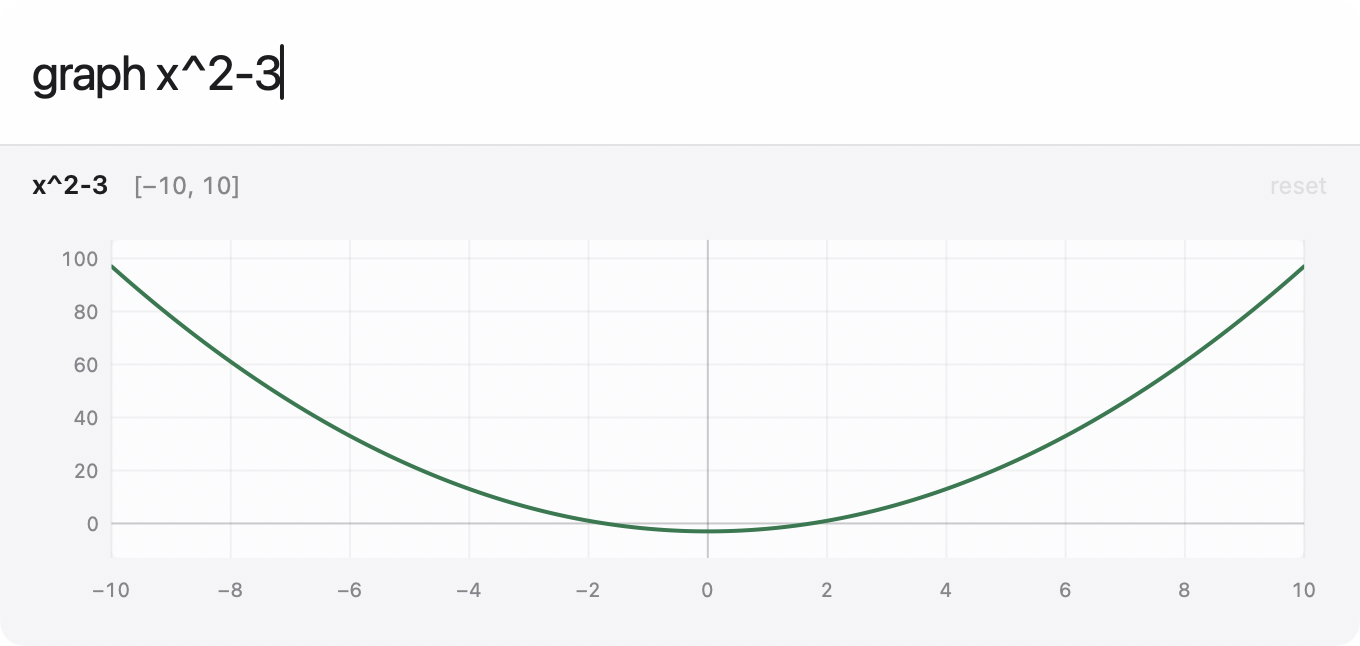
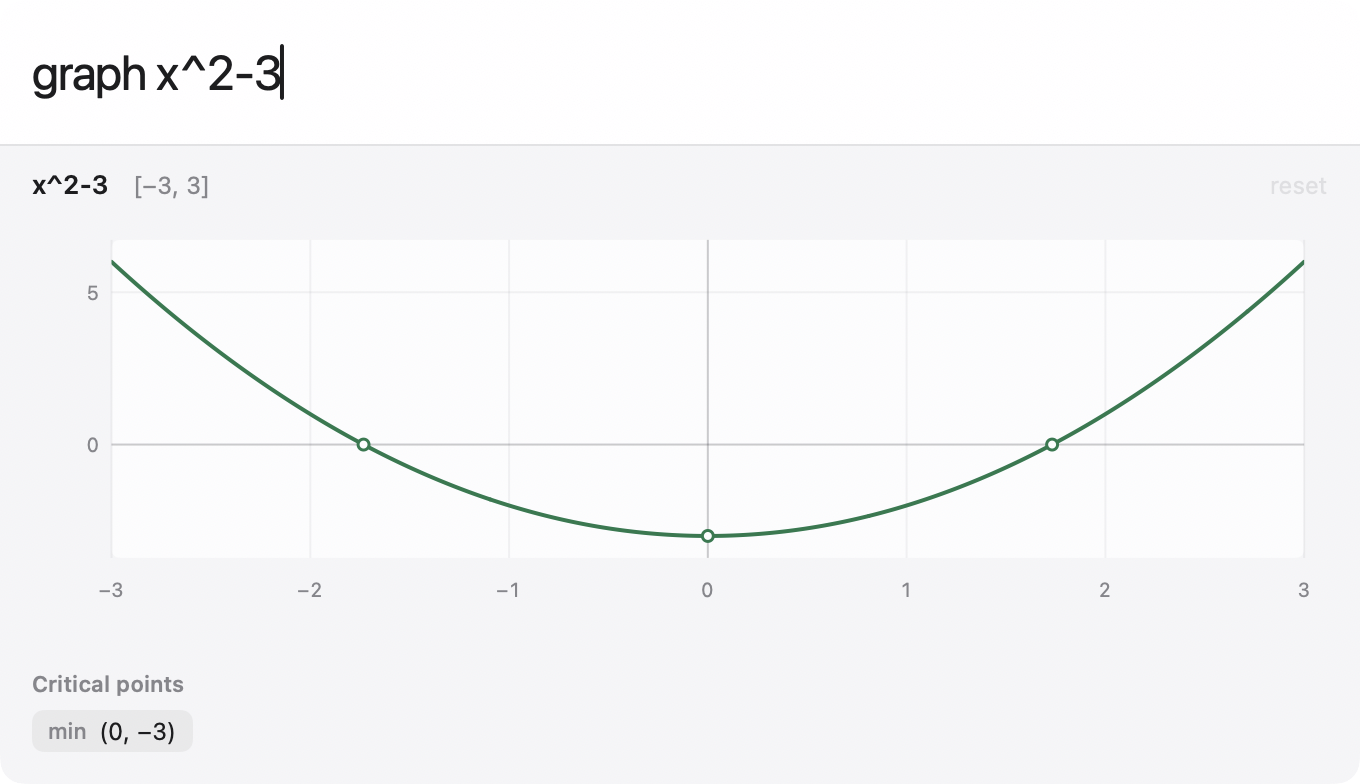
native mac: greeting as greeting.ts, PARITY.md updated (everything built; typeset preview waits on a Typst renderer), parity pairs refreshed on the full engine

diff --git a/native/mac/Sources/Bar/TextRules.swift b/native/mac/Sources/Bar/TextRules.swift
@@ -169,7 +169,8 @@ enum BarCommand: Equatable {
         if lower == "settings" || lower == "preferences" { return .settings }
         if lower == "tutorial" || lower == "tour" { return .tutorial }
         if lower.range(of: #"^skip(\s+(tutorial|tour))?$"#, options: .regularExpression) != nil { return .skip }
-        if lower == "hi" || lower == "hello" || lower == "hey" { return .greeting }
+        // greeting.ts: `hello` gets a hi back (not `hi` or `hey`, which could be someone's variable)
+        if lower.range(of: #"^(hello|hello there|hiya|howdy)\s*[!.]*$"#, options: .regularExpression) != nil { return .greeting }
         if let g = graphRE.groups(t), let body = g[1] ?? nil { return .graph(body) }
         return nil
     }
@@ -193,7 +194,7 @@ enum BarCommand: Equatable {
         case .tutorial: return "start the tutorial"
         case .skip: return ""
         case .graph: return ""
-        case .greeting: return ""
+        case .greeting: return "hi 👋"
         }
     }
 }

diff --git a/native/mac/Sources/Bar/BarModel.swift b/native/mac/Sources/Bar/BarModel.swift
@@ -493,7 +493,7 @@ final class BarModel: ObservableObject {
         case .graph:
             break
         case .greeting:
-            hint = "hi! type some maths, like 2^10 or sqrt(2), and press ↵"
+            clearLine()
         }
     }
 

diff --git a/native/mac/PARITY.md b/native/mac/PARITY.md
@@ -32,20 +32,20 @@ edge tools 11 pt medium shown on hover, accent green `#1d7a4c` / `#63d392`, ink 
 | Feature | Status | Notes |
 |---|---|---|
 | Typed words become symbols (`sqrt`→√ …), "Keep words" | ✅ | `Symbols.swift` (WORD_SYMBOLS, AT_ONCE, LONGER_WORDS, SHORTCUT_SYMBOLS); `dual` pair |
-| Inferred grey parens (`inferParens`, `autofillParens`) | ❌ | needs the core's inferParens (WP-APP-LOGIC); the engine already closes them for the answer |
-| Completion ghost, Tab / → accepts | ⏳ | drawn from `LiveAnswer.completion`; bridged `completionFor` answers nil until WP-APP-LOGIC |
+| Inferred grey parens (`inferParens`, `autofillParens`) | ✅ | engine `inferParens`, drawn muted before and after the text |
+| Completion ghost, Tab / → accepts | ✅ | `LiveAnswer.completion`, else engine `completionFor` (`foo` → `foot`) |
 | `[` pairing, `]` step-over, backspace in `[]`, wrap a selection, `+-` → ± | ✅ | `Symbols.bracketKey/wrap`, `BarTextView` |
-| Unit / known-word colouring, blank-reason squiggle, missing-unit offer | ❌ | `Engine.spans` / `blankReason` are bridged (nil today); drawing not built yet |
+| Unit / known-word colouring, blank-reason squiggle, missing-unit offer | ✅ | `unitSpans`, `knownWordSpans` as temporary colours; `blankReason` after 700 ms idle and on a failed ↵ (`enterHint`); `missingUnit` drawn muted after the number, ↵ again takes it (`10 mA + 5 / 1 kohm`) |
 | Radicals drawn over their argument | ✅ | bar over the radicand in the field, tape and answer (`RadicalText`) |
-| Σ/∫ bounds slots | ❌ | needs `bounds.ts` in the core |
+| Σ/∫ bounds slots | ✅ | `boundsIn`: limits drawn small beside the sign (upper over lower, hidden `_ ^ ..`, holes for empty ones); caret snaps (`snapOffset`); `afterTyping`, `boundKey` (→ Tab space ^ ↑ ↓ ↵ ⌫) and `wordToSign` |
 | Faint `ans` while chaining | ✅ | `history` pair |
-| Example rotation in the empty field | ❌ | placeholder "Calculate" shows; the onboarding examples need `hint()` (bridged) |
+| Example rotation in the empty field | ✅ | `exampleList`, every 2.5 s with the fade, answers evaluated live, until the first keystroke (`Tour.swift`) |
 | ↑/↓ history, ←/→ pick a side | ✅ | the web's pick model (`historyPicks`, side kept row to row); `select` pair |
-| ⌥↑/⌥↓ unit prefix step | ❌ | needs `stepPrefix` in the core |
-| Undo by typing runs | 🟡 | NSTextView undo (not run-merged as `undo.ts`) |
+| ⌥↑/⌥↓ unit prefix step | ✅ | engine `stepPrefix` + `formatValue` |
+| Undo by typing runs | ✅ | the web’s `undo.ts` model (runs merge within 1 s, ⌘Z / ⇧⌘Z), NSTextView undo off |
 | ⌘A/⌘X/⌘V, plain one-line paste | ✅ | `BarTextView.paste` |
 | Space-thousands, typed-space multiply | ✅ | engine option |
-| d/dt letters panel | ❌ | `LiveAnswer.timeLetters` is there; chips not built |
+| d/dt letters panel | ✅ | chips from `LiveAnswer.timeLetters`; a click moves a letter (`EvalOptions.timeVarying`) |
 | Draft kept across hides (`qcalc.draft`) | ✅ | |
 | Writing Tools / "Write with Siri" off on every field | ✅ | `writingToolsBehavior = .none`, `.noWritingTools()`, inline predictions off |
 
@@ -59,8 +59,8 @@ edge tools 11 pt medium shown on hover, accent green `#1d7a4c` / `#63d392`, ink 
 | Fit font | ✅ | shrinks to half before truncating |
 | Click copies (unitless setting), each half its own copy, drag out | ✅ | |
 | "✓ copied" flash | ✅ | caption, accent-hover, 1.2 s |
-| Closed-form upgrade | ⏳ | `Engine.closedForm` with a CancelToken; answers nil until WP-CALCULUS |
-| Solve display: letter, roots each clickable, messages | ❌ | rows show the display text; per-root buttons not built |
+| Closed-form upgrade | ✅ | `Engine.closedForm` with a CancelToken, cancelled by the next keystroke |
+| Solve display: letter, roots each clickable, messages | ✅ | `x =` copies all, each root copies at full precision, `, …` past the shown ones; no-root outcomes as a message |
 | Typeset preview row | ⏳ | hook `MathText.swift`; waits on `qcalc-typst` (the row stays hidden rather than showing a plain-text stand-in) |
 | Command messages in the answer slot (`periodic table`, `↵ play pong`, message hints) | ✅ | as `.live.message` |
 
@@ -72,7 +72,7 @@ edge tools 11 pt medium shown on hover, accent green `#1d7a4c` / `#63d392`, ink 
 | Selection, picks, ↵ inserts the pick, ⌥↵ the other half | ✅ | |
 | ⌘⌫ deletes the row, ⌘Z restores it | ✅ | |
 | Clear history (⌃C, edge tool) | ✅ | |
-| Matrix / complex / solve rows; a system row reopens its panel | 🟡 / ❌ | plain rows show; reopening systems needs the systems panel |
+| Matrix / complex / solve rows; a system row reopens its panel | ✅ | engine displays; a `sys` row reopens its equations |
 | Scrolling | ✅ | native |
 | Persistence `history.json` | ✅ | `Engine.loadHistory/saveHistory` in `~/Library/Application Support/Q Calc Dev/` |
 
@@ -81,14 +81,14 @@ edge tools 11 pt medium shown on hover, accent green `#1d7a4c` / `#63d392`, ink 
 | Feature | Status | Notes |
 |---|---|---|
 | Graph: head, plot, grid, ticks, curve, pan, zoom, reset | ✅ | `graph` pair: same layout, colours and sizes |
-| Graph: home view, roots and critical points, hover readout | ⏳ / ❌ | marks and the "Critical points" list draw from `GraphResult` once WP-GRAPH answers; the fallback sampler fits y but starts at [−10, 10]; hover readout not built |
-| Systems panel (`sys`) | ❌ | not built |
+| Graph: home view, roots and critical points, hover readout | ✅ | `graphHome`, `graphTicks`, `graphReadoutY`, `GraphResult` roots and critical points; graph pair matches |
+| Systems panel (`sys`) | ✅ | `sys N` opens N fields (`sysCommand`), solved live by `engine/system` `solveLive`, ↵ / ↑ ↓ between fields (arrows need macOS 14; Tab on 13), saved as a `system` row |
 | Cheat sheet (`?`, `help`) | ✅ | `help` pair, keys follow the keybinds |
 | Games list | ✅ | `games` pair (↑ from the bottom, ↓ off the end) |
 | Edge tools with key tooltips | ✅ | hover-only, ink pills after 450 ms |
 | Message cards with reply, ask cards, 10 s auto-hide, held on hover/focus/draft | ✅ | `banner` pair; expiry verified at 11 s |
-| Tour line and onboarding hints | ❌ | `Engine.hint` bridged; the tutorial is a one-line walkthrough for now |
-| Greeting reply | 🟡 | a hint line, not the exact `GREETING_REPLY` text |
+| Tour line and onboarding hints | ✅ | open, pause (1.5 s) and commit hints (`pickHint`), the walkthrough’s line with `n/m` and skip, `tutorial` / `skip`, extras on later opens |
+| Greeting reply | ✅ | `hello` (not `hi`) answers `hi 👋` in the answer slot; ↵ clears |
 | `message <name> …` send | ✅ | `Messages.send` (added to the shared Messages.swift) |
 
 ## 6. Sheets and windows
@@ -101,8 +101,8 @@ edge tools 11 pt medium shown on hover, accent green `#1d7a4c` / `#63d392`, ink 
 | Settings: General, Units (choices from the engine), Messages, keybinds sheet | ✅ | shared SwiftUI; `Units` uses `unitSettingGroups()` |
 | Menu bar item, hotkey, nudges | ✅ | shared code; dev hotkey ⌃⌥⇧Space |
 | Sparkle (same appcast and key in `--release`; off in dev), open at login, unitless copy, ECB rates | ✅ | rates handed to `Engine.setRates` |
-| First run, tips, tutorial entry points | 🟡 | first run and tips show; tutorial is the one-line version |
-| Usage analytics | ❌ | the setting is kept; counting not ported |
+| First run, tips, tutorial entry points | ✅ | first run leads the examples with the shortcut; tutorial from settings and the menu starts the walkthrough |
+| Usage analytics | ✅ | `analytics.ts` counting (`bump`, `calcKind`, `dueToSend`, `usagePayload`) at the web’s events; release builds send, dev builds only count |
 | Theme system / light / dark | ✅ | all pairs in both |
 
 ## 7. Keyboard map
@@ -113,11 +113,11 @@ edge tools 11 pt medium shown on hover, accent green `#1d7a4c` / `#63d392`, ink 
 | ⌥↵ other half | ✅ |
 | Esc layers then hide | ✅ |
 | ↑ / ↓ history, games list | ✅ |
-| ← / → picks; → accepts completion at the end | ✅ / ⏳ |
-| Tab / ⇧Tab completion, answer forms | ⏳ / ✅ |
-| ⌥↑ / ⌥↓ prefix | ❌ |
+| ← / → picks; → accepts completion at the end | ✅ |
+| Tab / ⇧Tab completion, answer forms | ✅ |
+| ⌥↑ / ⌥↓ prefix | ✅ |
 | ⌘⌫ delete row | ✅ |
-| ⌘Z / ⇧⌘Z | ✅ (row undo; text undo is NSTextView's) |
+| ⌘Z / ⇧⌘Z | ✅ (typing runs, and a deleted row) |
 | ⌘C ⇧⌘C ⌃D ⌃F ⌃S ⌃C ⌘, (rebindable) | ✅ |
 | ⌘W sheet, else hide | ✅ |
 
@@ -127,7 +127,19 @@ edge tools 11 pt medium shown on hover, accent green `#1d7a4c` / `#63d392`, ink 
 |---|---|---|
 | Answer as you type, blank lines blank | ✅ | |
 | Chaining from `ans` | ✅ | `Engine.chains` |
-| Copy unitless by default; copy as Typst | ✅ / ❌ | Typst copy needs `typstSource` (bridged) |
+| Copy unitless by default; copy as Typst | ✅ | `copiedEquation` on copies from the field when “Copy Typst compatible” is on |
 | Degrees, 6 sig figs, rationalize by default; same UserDefaults keys | ✅ | |
 | Games in an on-demand web view | ✅ | `parity/game-lifecycle.sh`: WebContent 1 → 2 with pong open → 1 after closing |
 | 420 / 67 / 69 effects | 🟡 | click-through web view over the bar, torn down after 3.6 s; the effect pages reuse the components, not pixel-compared |
+
+## Where the logic runs
+
+Every rule above is the TS's own. The Rust engine answers what it has ported (through `Engine` and
+`Engine.callJson`). A few `src/lib` functions it doesn't register yet (`bounds` `afterTyping`/`boundKey`/
+`wordToSign`/`isHidden`/`snapOffset`, `blankReason`, `missingUnit`, `tour`, `analytics`, `typstMath`
+`copiedEquation`) run as the TS itself in JavaScriptCore (`Resources/applogic.js`, built by `applogic/build.sh`): an
+in-process interpreter, not a web view. `AppLogic.call` tries the engine first, so each moves to Rust with no change.
+
+Still waiting: the typeset preview row needs a Typst renderer (`qcalc-typst`). The engine gives the Typst source
+(`typstSource`) and `MathText.swift` is the hook; the row stays hidden until then rather than showing something
+different from today's.
